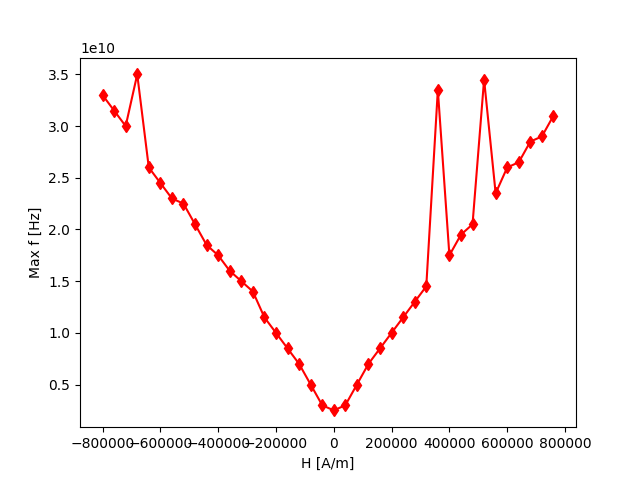
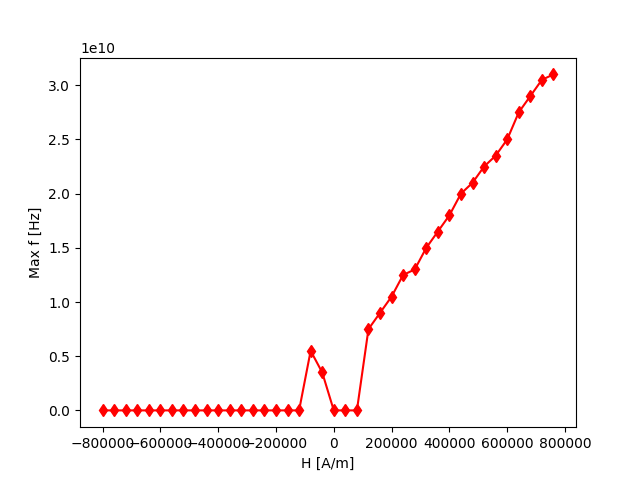
updating PIM

diff --git a/Engine.hpp b/Engine.hpp
@@ -164,17 +164,6 @@ private:
 
         fftw_make_planner_thread_safe();
         // figure out how much approx. should be taken for the plan
-        const int fftLength = (time - tStart) / tStep;
-        // rank is 1 since we have 1D transform
-        // 3 plans for each M x 2 layers x # of simulations
-        // double in[fftLength];
-        // const fftw_plan forwards = fftw_plan_many_dft_r2c(1, &fftLength, 3 * 2 * Hdistribution.size(), in, 0, 1, 1,
-        //                                                   reinterpret_cast<fftw_complex*>(in), 0, 1, 1, FFTW_PATIENT);
-        // free(in);
-        // fftw_plan plan = fftw_plan_dft_r2c_1d(cutMag.size(),
-        //                                       cutMag.data(),
-        //                                       out,
-        //                                       FFTW_ESTIMATE);
         for (int t = 0; t < threadNum; t++)
         {
             int threadLoad = minThreadLoad;
@@ -221,7 +210,7 @@ private:
                     mtj.runSimulation(
                         time,
                         tStep, tWrite, false, false, false);
-                    auto res = mtj.spectralFFT(fftLength, tStart, tStep);
+                    auto res = mtj.spectralFFT(tStart, tStep);
                     std::vector<double> mag_vector, resistances;
                     for (auto &l : mtj.layers)
                     {
@@ -245,7 +234,6 @@ private:
             {
                 json subresult;
                 subresult[s_mode] = hIndx;
-                // std::cout << resMap["bottom_my_amplitude"][0] << std::endl;
                 for (auto &[k, v] : resMap)
                 {
                     if (k != "frequencies")

diff --git a/example/task_runner.py b/example/task_runner.py
@@ -70,7 +70,7 @@ def compose_max_PIM(data: dict, task_def: dict):
     freqs = data['frequencies']
     for r in data['pim']:
         fields.append(r[task_def['parameters']['mode']])
-        indx = np.argmax(r['amplitude'])
+        indx = np.argmax(r['free_mz_amplitude'])
         max_frequencies.append(freqs[indx])
 
     fields, max_frequencies = zip(*sorted(zip(fields, max_frequencies)))
